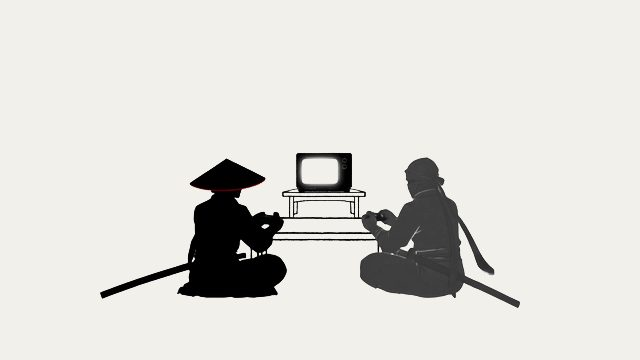
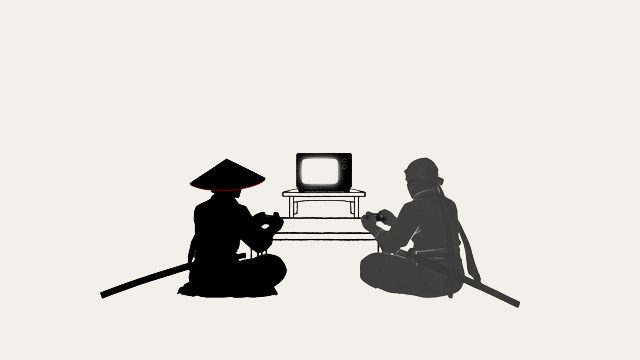
v0.69: Juego en blanco sin jugar y jugando con el rival quieto
- Jugando: nuevo clip j3 (la mitad del rival quieta, solo se mueven los dedos del shinobi).
- Sin jugar, el marco de Juego queda en papel blanco (sin pelea en bucle ni chispas). Al iniciar: A jugar → Jugando.

Claude-Session: https://claude.ai/code/session_01BXqy3F16TAremLTdTkdmfS

Changed region(s): [[0.7188, 0.6111, 0.7812, 0.7944], [0.5625, 0.5806, 0.625, 0.6417], [0.6875, 0.7944, 0.7188, 0.825]]

diff --git a/src/temas/shinobi/Escenas.tsx b/src/temas/shinobi/Escenas.tsx
@@ -22,12 +22,14 @@ type PropsVideo = {
   reducido: boolean
   onFin?: () => void
   className?: string
+  /** Solo el papel, sin video (Juego cuando no estás jugando); igual precarga lo que viene. */
+  enBlanco?: boolean
   /** Kanji del sello del marco (遊 Juego, 眠 Sueño y noche). */
   sello?: string
   children?: React.ReactNode
 }
 
-export function VideoEscena({ actual, bucle = false, precargar = [], reducido, onFin, className = '', sello, children }: PropsVideo) {
+export function VideoEscena({ actual, bucle = false, precargar = [], reducido, onFin, className = '', sello, enBlanco = false, children }: PropsVideo) {
   const src = (c: string, ext: string) => `${BASE}${c}${ext}`
   const [anterior, setAnterior] = useState<string | null>(null)
   const [roto, setRoto] = useState<Set<string>>(() => new Set())
@@ -53,13 +55,13 @@ export function VideoEscena({ actual, bucle = false, precargar = [], reducido, o
     const id = window.setTimeout(() => fin.current?.(), 1200)
     return () => window.clearTimeout(id)
   }, [actual, bucle, reducido, roto])
-  const montados = reducido ? [] : [actual, ...precargar.filter((c) => c !== actual)]
-  const quieto = reducido || roto.has(actual)
+  const montados = reducido ? [] : [...(enBlanco ? [] : [actual]), ...precargar.filter((c) => c !== actual)]
+  const quieto = !enBlanco && (reducido || roto.has(actual))
   return (
     <div className={`tema-ventanilla ${className}`} aria-hidden>
     {sello && <span className="tema-sello">{sello}</span>}
     <div className="tema-escena">
-      {anterior && <img className="tema-escena-clip" src={src(anterior, '-fin.jpg')} alt="" />}
+      {anterior && !enBlanco && <img className="tema-escena-clip" src={src(anterior, '-fin.jpg')} alt="" />}
       {quieto && <img className="tema-escena-clip arriba" src={src(actual, '-quieto.jpg')} alt="" />}
       {montados.map((c) => (
         <video
@@ -90,7 +92,7 @@ const PRECARGA_JUEGO: Record<ClipJuego, ClipJuego[]> = {
   pelea: ['a-jugar'], 'a-jugar': ['jugando'], jugando: ['te-entra'], 'te-entra': ['te-bucle'], 'te-bucle': ['te-sale'], 'te-sale': ['jugando'],
 }
 const NOTA_JUEGO: Record<ClipJuego, string> = {
-  pelea: 'Pelean en la casa hasta que empieces a jugar', 'a-jugar': 'Dejan de pelear y se sientan a jugar', jugando: 'Jugando, concentrados',
+  pelea: 'Cuando empieces a jugar, se sientan a jugar', 'a-jugar': 'Dejan de pelear y se sientan a jugar', jugando: 'Jugando, concentrados',
   'te-entra': 'Pausa: té', 'te-bucle': 'Pausa: té', 'te-sale': 'De vuelta a jugar',
 }
 
@@ -119,25 +121,16 @@ export function JuegoShinobi({ activa, pausada, reducido }: { activa: boolean; p
       <VideoEscena
         actual={rutaJuego(clip)}
         sello="遊"
+        enBlanco={clip === 'pelea'}
         className={clip === 'a-jugar' ? 'epico' : ''}
         bucle={BUCLE_JUEGO.includes(clip)}
         precargar={PRECARGA_JUEGO[clip].map(rutaJuego)}
         reducido={reducido}
         onFin={() => { const s = SIGUE_JUEGO[clipRef.current]; if (s) setClip(s) }}
       >
-        {clip === 'pelea' && !reducido && <Chispas />}
       </VideoEscena>
       {tinta > 0 && <div key={tinta} className="tema-escena-tinta" aria-hidden />}
       <span className="sl-casa-nota">{NOTA_JUEGO[clip]}</span>
-    </div>
-  )
-}
-
-/** Chispas donde chocan las katanas (cada choque del clip de la pelea, ≈ cada 1,25 s). */
-function Chispas() {
-  return (
-    <div className="tema-chispas" aria-hidden>
-      {Array.from({ length: 7 }, (_, i) => <i key={i} style={{ '--a': `${i * 51 - 150}deg`, '--d': `${(i % 3) * 0.04}s` } as CSSProperties} />)}
     </div>
   )
 }

diff --git a/src/temas/shinobi/GaleriaShinobi.tsx b/src/temas/shinobi/GaleriaShinobi.tsx
@@ -82,7 +82,7 @@ export function GaleriaShinobi() {
       <Tarjeta titulo="Animaciones · Juego">
         <div className="juego-shoji"><JuegoShinobi activa={juego !== 'pelea'} pausada={juego === 'te'} reducido={!!reducido} /></div>
         <div className="fila" style={{ gap: 6, flexWrap: 'wrap', marginTop: 8 }}>
-          <button type="button" className="boton chico" onClick={() => setJuego('pelea')}>Pelea</button>
+          <button type="button" className="boton chico" onClick={() => setJuego('pelea')}>Sin jugar</button>
           <button type="button" className="boton chico" onClick={() => setJuego('jugando')}>▶ A jugar</button>
           <button type="button" className="boton chico" onClick={() => setJuego('te')}>❚❚ Pausa (té)</button>
         </div>

diff --git a/src/version.ts b/src/version.ts
@@ -1,3 +1,3 @@
 /** Versión visible arriba y en «Más», para saber si el teléfono ya tiene la última. Subila en cada entrega. */
-export const VERSION_APP = '0.68'
+export const VERSION_APP = '0.69'
 export const FECHA_VERSION = '6 nov 2026'
